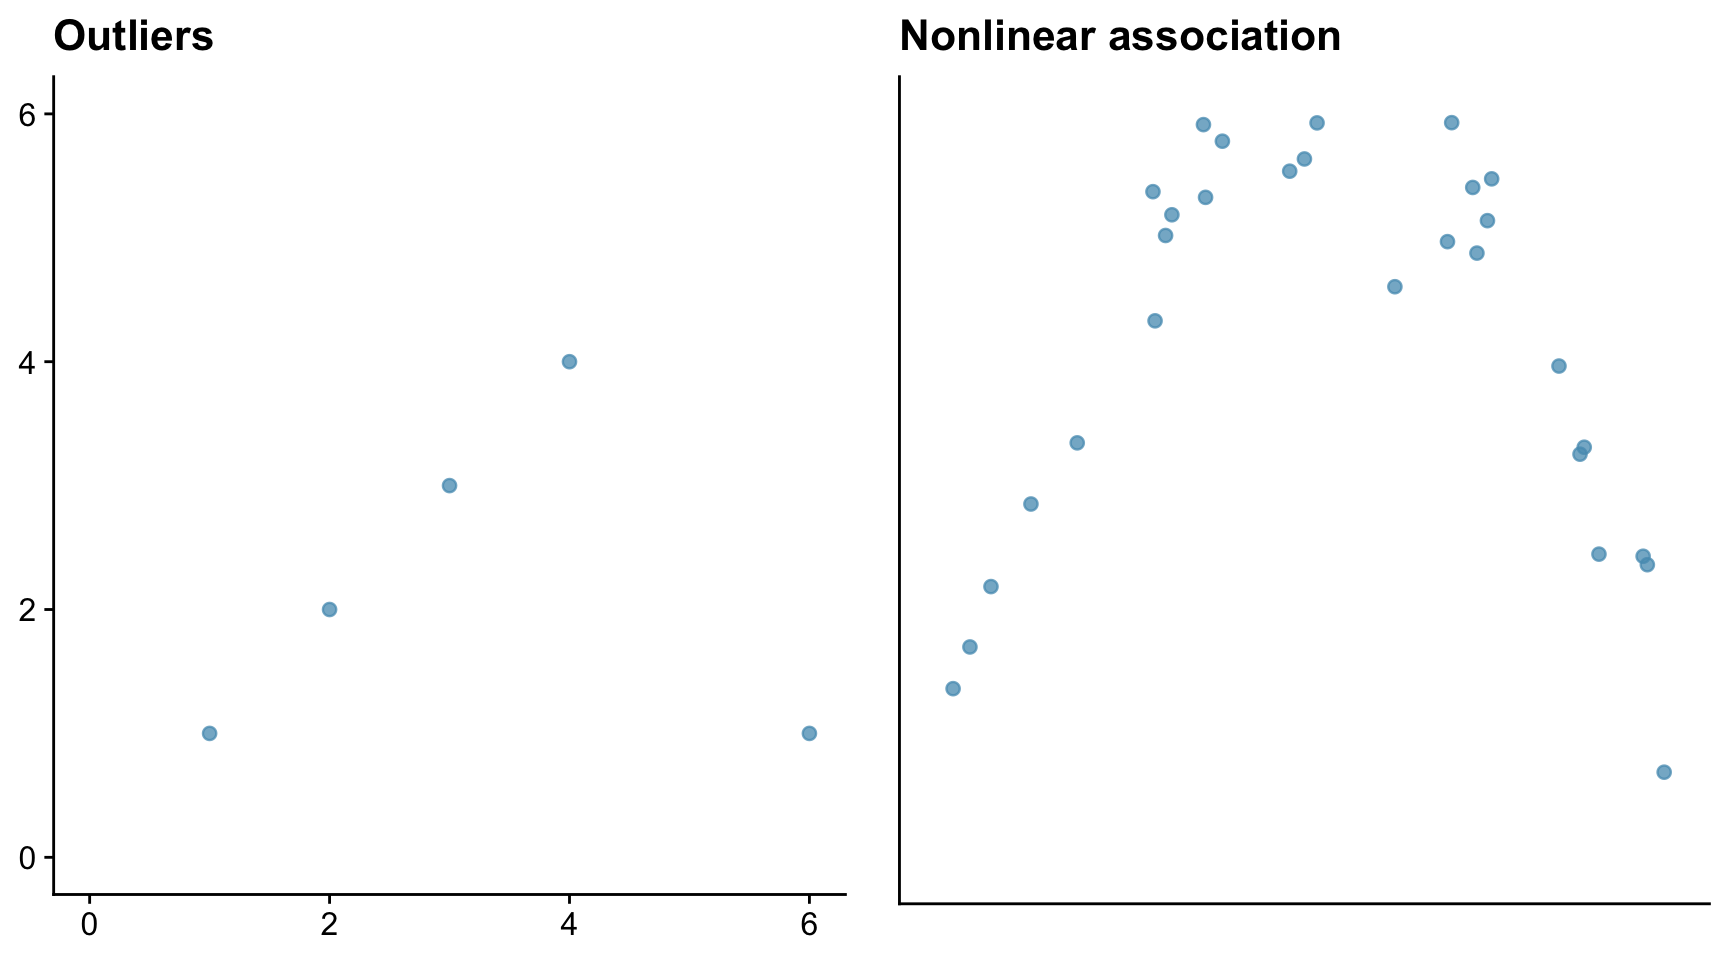
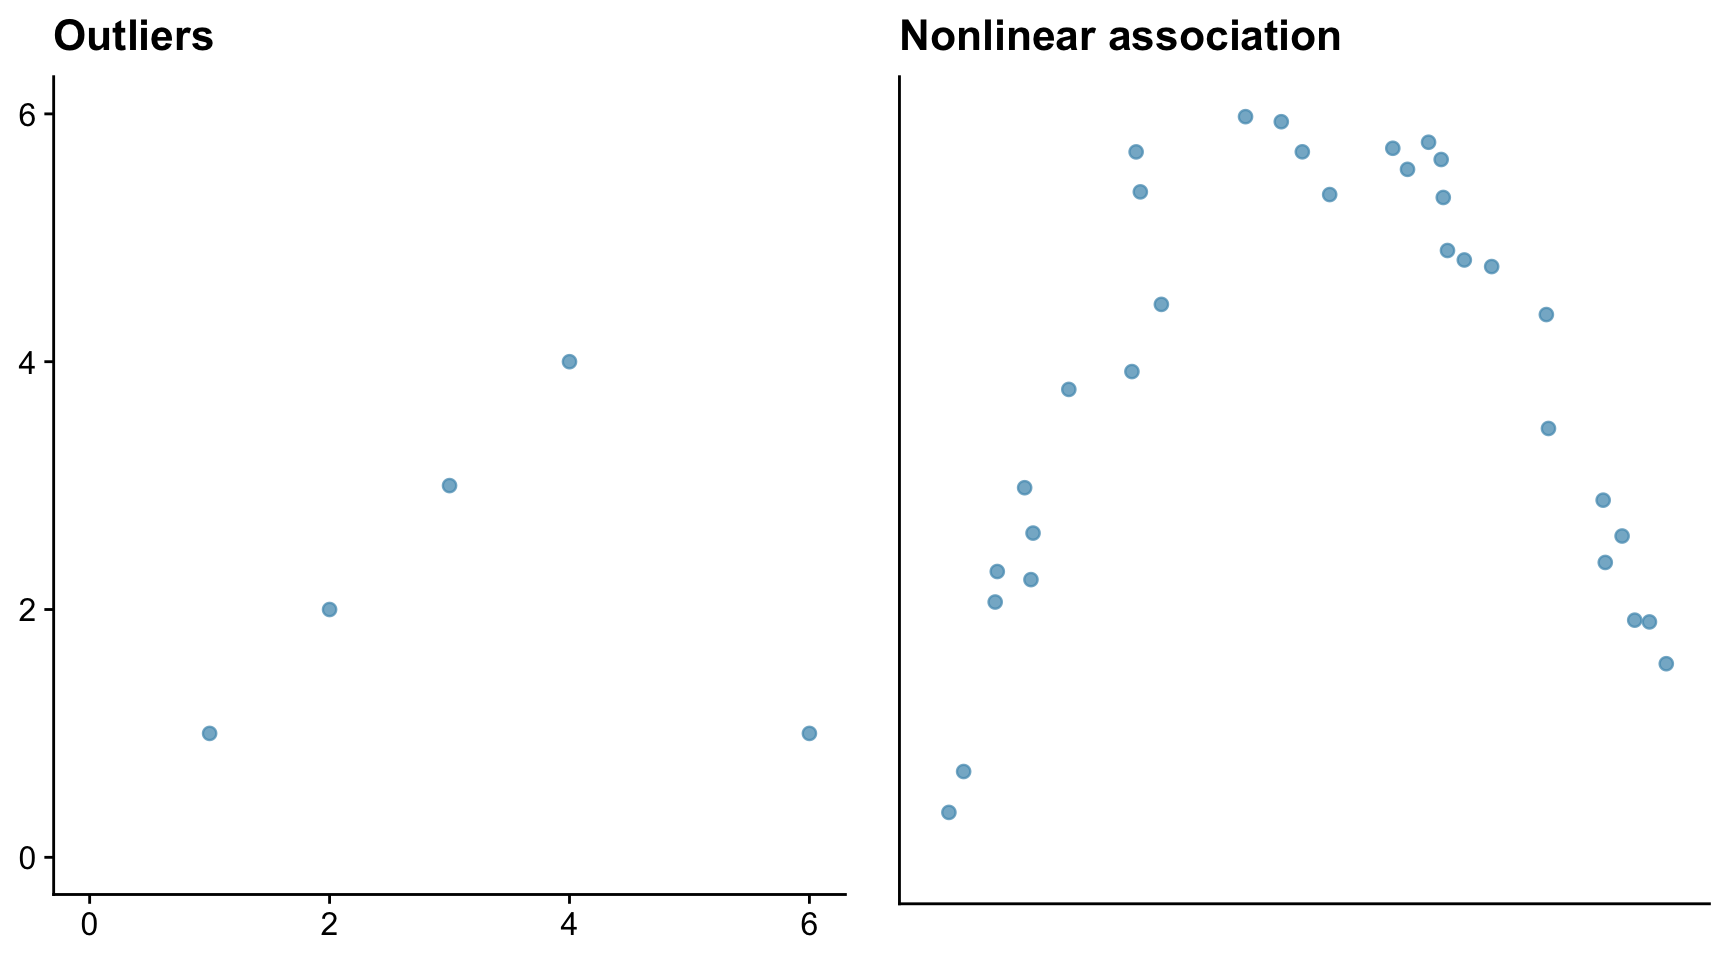
styles css

diff --git a/docs/correlation.html b/docs/correlation.html
@@ -458,13 +458,13 @@ window.Quarto = {
     Pearson's product-moment correlation
 
 data:  x and y
-t = 9.133, df = 48, p-value = 4.523e-12
+t = 9.2023, df = 48, p-value = 3.581e-12
 alternative hypothesis: true correlation is not equal to 0
 95 percent confidence interval:
- 0.6660625 0.8799199
+ 0.6694027 0.8812734
 sample estimates:
-      cor 
-0.7967038 </code></pre>
+     cor 
+0.798895 </code></pre>
 </div>
 </div>
 <p>There are different ways to calculate the correlation coefficient. Which of them is appropriate depends mainly on the type of data, and if they are numeric, whether they are normally distributed. If they are, then we use the Pearson method. If they are not, for example because they are ordinal data, then we use the Spearman’s Rank method and write <em>method=“spearman”</em> instead. In this case we can relax the requirement that there is a linear association between the data sets, but there does still need to be a monotonic relationship.</p>
@@ -630,7 +630,7 @@ sample estimates:
 </div>
 </div>
 </div>
-<p>The outlier in the left-hand figure above brings the correlation coefficient down to 0.08, which is close to zero. The correlation coefficient in the right-hand figure is similarly small at -0.052, despite that there is a strong association between the <em>x</em> and <em>y</em> data. The reason is that the association is non-linear.</p>
+<p>The outlier in the left-hand figure above brings the correlation coefficient down to 0.08, which is close to zero. The correlation coefficient in the right-hand figure is similarly small at 0.137, despite that there is a strong association between the <em>x</em> and <em>y</em> data. The reason is that the association is non-linear.</p>
 </section>
 <section id="spearmans-rank-correlation-coefficient-rsp" class="level4" data-number="9.1.6.2">
 <h4 data-number="9.1.6.2" class="anchored" data-anchor-id="spearmans-rank-correlation-coefficient-rsp"><span class="header-section-number">9.1.6.2</span> Spearman’s rank correlation coefficient <em>r</em><sub>Sp</sub></h4>

diff --git a/docs/tests_for_difference_two_levels.html b/docs/tests_for_difference_two_levels.html
@@ -636,7 +636,7 @@ Figure&nbsp;4.3: The data points show mean values, the error bars show plus or m
     Shapiro-Wilk normality test
 
 data:  example1
-W = 0.99857, p-value = 0.9613</code></pre>
+W = 0.99687, p-value = 0.4503</code></pre>
 </div>
 <div class="sourceCode cell-code" id="cb11"><pre class="sourceCode r code-with-copy"><code class="sourceCode r"><span id="cb11-1"><a href="#cb11-1" aria-hidden="true" tabindex="-1"></a><span class="fu">shapiro.test</span>(example2) <span class="co"># 100 samples drawn from a uniformly (ie NOT normally) distributed population</span></span></code><button title="Copy to Clipboard" class="code-copy-button"><i class="bi"></i></button></pre></div>
 <div class="cell-output cell-output-stdout">
@@ -644,7 +644,7 @@ W = 0.99857, p-value = 0.9613</code></pre>
     Shapiro-Wilk normality test
 
 data:  example2
-W = 0.94493, p-value = 1.133e-12</code></pre>
+W = 0.95711, p-value = 6.987e-11</code></pre>
 </div>
 </div>
 <p>For the examples above, we see that Shapiro-Wilk test gave a high <em>p</em>-value for the data that we knew <em>were</em> drawn from a normal distribution, and a very low <em>p</em>-value for the data that we knew were not.</p>

diff --git a/docs/index.html b/docs/index.html
@@ -71,6 +71,7 @@ ul.task-list li input[type="checkbox"] {
 }</script>
 
 
+<link rel="stylesheet" href="styles.css">
 </head>
 
 <body class="nav-sidebar floating">

diff --git a/docs/styles.css b/docs/styles.css
@@ -1,0 +1,4 @@
+/* Make sidebar headings bold */
+.sidebar-item-text.sidebar-link {
+  font-weight: bold;
+}

diff --git a/styles.css b/styles.css
@@ -1,0 +1,4 @@
+/* Make sidebar headings bold */
+.sidebar-item-text.sidebar-link {
+  font-weight: bold;
+}
